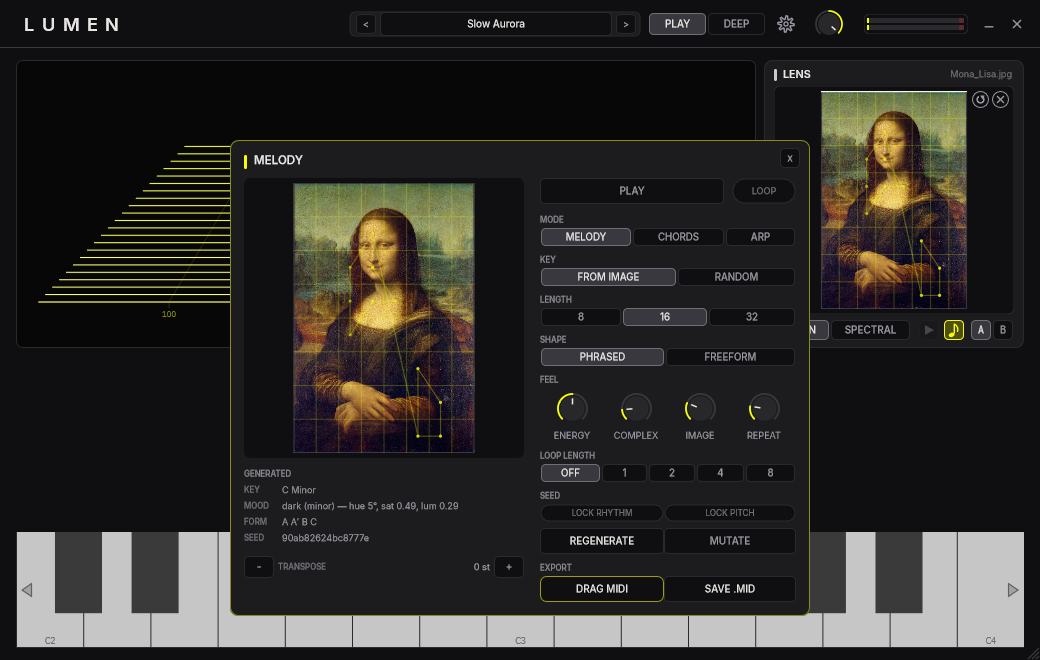
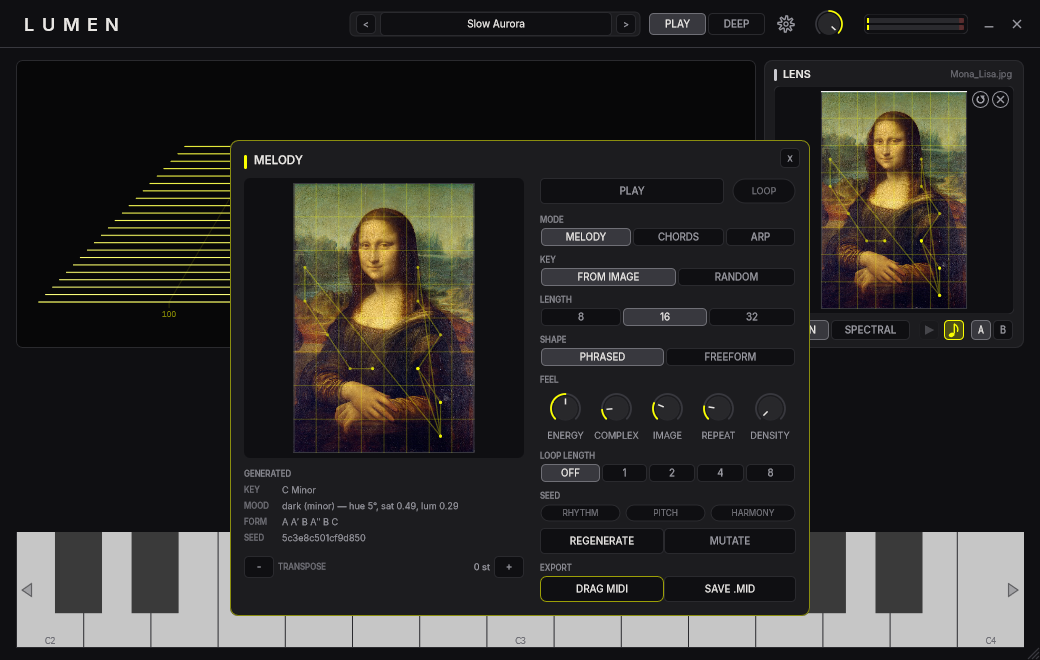
RC: close the two --check-params gaps — DENSITY knob, HARMONY lock chip
melodyDensity (param since Phase 3, knob deferred pending screenshot
verification) joins the FEEL row as its fifth knob; melodyLockHarmony
(param since Phase 4b) joins the SEED row as a third lock chip, so all
three RegenLocks are now reachable. Lock chips relabelled RHYTHM /
PITCH / HARMONY to fit three across (the SEED caption + tooltips keep
the meaning). --check-params: 114/114 attached, none missing.

New MelodyParamRoundtripTest pins the whole melody surface in one
state round-trip: all 16 melody params (incl. Phase 5's loopPlayback
and transpose) set non-default, serialized, restored into a fresh
processor, compared. Both params were already APVTS-persisted — the
gap was UI reachability, and the roundtrip now proves the persistence
claim rather than assuming it.

Verified: Windows suite ALL TESTS PASSED; WSL suite green minus the
known Linux-only golden; panel screenshot re-inspected (five knobs and
three chips render without clipping; kept in samples/phase5-ui/).

diff --git a/Source/UI/MelodyPanel.cpp b/Source/UI/MelodyPanel.cpp
@@ -308,15 +308,17 @@ MelodyPanel::MelodyPanel (const UiShared& sharedContext)
     addAndMakeVisible (arpPatternTabs);
     addAndMakeVisible (loopTabs);
 
-    // Four macro knobs.
+    // Five macro knobs.
     energyKnob     = std::make_unique<ModKnob> (shared, params::melodyEnergy,         "ENERGY",   theme::neonYellow);
     complexityKnob = std::make_unique<ModKnob> (shared, params::melodyComplexity,     "COMPLEX",  theme::neonYellow);
     imageKnob      = std::make_unique<ModKnob> (shared, params::melodyImageInfluence, "IMAGE",    theme::neonYellow);
     repetitionKnob = std::make_unique<ModKnob> (shared, params::melodyRepetition,     "REPEAT",   theme::neonYellow);
+    densityKnob    = std::make_unique<ModKnob> (shared, params::melodyDensity,        "DENSITY",  theme::neonYellow);
     addAndMakeVisible (*energyKnob);
     addAndMakeVisible (*complexityKnob);
     addAndMakeVisible (*imageKnob);
     addAndMakeVisible (*repetitionKnob);
+    addAndMakeVisible (*densityKnob);
 
     // Regeneration: fresh material, or a small mutation of the current one; the
     // two locks constrain what either is allowed to change.
@@ -331,12 +333,15 @@ MelodyPanel::MelodyPanel (const UiShared& sharedContext)
     mutateButton.onClick = [this] { shared.processor.melodyController().mutate(); };
     addAndMakeVisible (mutateButton);
 
-    lockRhythm = std::make_unique<ParamToggle> (shared, params::melodyLockRhythm, "LOCK RHYTHM", theme::neonYellow);
-    lockPitch  = std::make_unique<ParamToggle> (shared, params::melodyLockPitch,  "LOCK PITCH",  theme::neonYellow);
+    lockRhythm  = std::make_unique<ParamToggle> (shared, params::melodyLockRhythm,  "RHYTHM",  theme::neonYellow);
+    lockPitch   = std::make_unique<ParamToggle> (shared, params::melodyLockPitch,   "PITCH",   theme::neonYellow);
+    lockHarmony = std::make_unique<ParamToggle> (shared, params::melodyLockHarmony, "HARMONY", theme::neonYellow);
     lockRhythm->button.setTooltip ("Keep the timing; Regenerate/Mutate change only pitch");
     lockPitch->button.setTooltip ("Keep the pitches; Regenerate/Mutate change only rhythm");
+    lockHarmony->button.setTooltip ("Keep the chord progression while pitch/rhythm re-roll");
     addAndMakeVisible (*lockRhythm);
     addAndMakeVisible (*lockPitch);
+    addAndMakeVisible (*lockHarmony);
 
     styleChip (saveButton, theme::accentMod);
     saveButton.setColour (juce::TextButton::textColourOffId, theme::textPrimary);
@@ -441,20 +446,23 @@ void MelodyPanel::resized()
     phraseTabs.setBounds (shapeRow);
     arpPatternTabs.setBounds (shapeRow);
 
-    // FEEL: four macro knobs across the column.
+    // FEEL: five macro knobs across the column.
     auto knobs = section ("FEEL", 54);
-    const int kw = knobs.getWidth() / 4;
-    energyKnob->setBounds     (knobs.removeFromLeft (kw).reduced (3, 0));
-    complexityKnob->setBounds (knobs.removeFromLeft (kw).reduced (3, 0));
-    imageKnob->setBounds      (knobs.removeFromLeft (kw).reduced (3, 0));
-    repetitionKnob->setBounds (knobs.reduced (3, 0));
+    const int kw = knobs.getWidth() / 5;
+    energyKnob->setBounds     (knobs.removeFromLeft (kw).reduced (2, 0));
+    complexityKnob->setBounds (knobs.removeFromLeft (kw).reduced (2, 0));
+    imageKnob->setBounds      (knobs.removeFromLeft (kw).reduced (2, 0));
+    repetitionKnob->setBounds (knobs.removeFromLeft (kw).reduced (2, 0));
+    densityKnob->setBounds    (knobs.reduced (2, 0));
 
     loopTabs.setBounds (section ("LOOP LENGTH", 18));
 
-    // SEED: the two locks, then the two regeneration actions.
+    // SEED: the three locks, then the two regeneration actions.
     auto lockRow = section ("SEED", 18, 6);
-    lockRhythm->setBounds (lockRow.removeFromLeft (lockRow.getWidth() / 2 - 4));
-    lockPitch->setBounds  (lockRow.removeFromRight (lockRow.getWidth()));
+    const int lw = lockRow.getWidth() / 3;
+    lockRhythm->setBounds  (lockRow.removeFromLeft (lw).withTrimmedRight (4));
+    lockPitch->setBounds   (lockRow.removeFromLeft (lw).withTrimmedRight (4));
+    lockHarmony->setBounds (lockRow);
     auto actionRow = row (26, 8);
     regenerateButton.setBounds (actionRow.removeFromLeft (actionRow.getWidth() / 2 - 4));
     mutateButton.setBounds     (actionRow.removeFromRight (actionRow.getWidth()));

diff --git a/Tools/Tests/TestsMain.cpp b/Tools/Tests/TestsMain.cpp
@@ -2183,6 +2183,68 @@ public:
     }
 };
 
+// RC pass: every melody parameter — including the Phase 5 additions — must
+// survive a full APVTS state round-trip with a non-default value. This is the
+// save/load contract for the whole melody surface in one pin.
+class MelodyParamRoundtripTest final : public juce::UnitTest
+{
+public:
+    MelodyParamRoundtripTest()
+        : juce::UnitTest ("Melody parameters all survive a state round-trip", "State") {}
+
+    void runTest() override
+    {
+        using namespace lumen;
+
+        // id -> distinct non-default value (denormalized).
+        const std::pair<const char*, float> targets[] = {
+            { params::melodyKeyMode,        1.0f },   // Random
+            { params::melodyMode,           2.0f },   // Arp
+            { params::melodyLength,         2.0f },   // 32
+            { params::melodyPhrase,         1.0f },   // Freeform
+            { params::melodyArpPattern,     4.0f },   // Random
+            { params::melodyLoopLength,     3.0f },   // 4 bars
+            { params::melodyEnergy,         0.9f },
+            { params::melodyComplexity,     0.6f },
+            { params::melodyImageInfluence, 0.8f },
+            { params::melodyRepetition,     0.7f },
+            { params::melodyDensity,        0.4f },
+            { params::melodyLockRhythm,     1.0f },
+            { params::melodyLockPitch,      1.0f },
+            { params::melodyLockHarmony,    1.0f },
+            { params::melodyLoopPlayback,   1.0f },
+            { params::melodyTranspose,      -7.0f },
+        };
+
+        beginTest ("set non-default values and serialize");
+        NullProcessor source;
+        for (const auto& [id, value] : targets)
+        {
+            auto* p = source.apvts.getParameter (id);
+            expect (p != nullptr, juce::String (id) + " exists");
+            if (p != nullptr)
+                p->setValueNotifyingHost (p->convertTo0to1 (value));
+        }
+        const auto xml = source.apvts.copyState().createXml();
+        expect (xml != nullptr, "state serializes to XML");
+        if (xml == nullptr)
+            return;
+
+        beginTest ("a fresh processor restores every melody param");
+        NullProcessor restored;
+        restored.apvts.replaceState (juce::ValueTree::fromXml (*xml));
+        for (const auto& [id, value] : targets)
+        {
+            auto* p = restored.apvts.getParameter (id);
+            expect (p != nullptr, juce::String (id) + " exists after restore");
+            if (p == nullptr)
+                continue;
+            expectWithinAbsoluteError (p->convertFrom0to1 (p->getValue()), value,
+                                       0.001f, juce::String (id));
+        }
+    }
+};
+
 // Phase 5: Transpose is post-generation only — the stored sequence never
 // changes, and the exported MIDI shifts every note by exactly the param value.
 class MelodyTransposeTest final : public juce::UnitTest
@@ -2263,6 +2325,7 @@ MelodyLockHarmonyWiringTest melodyLockHarmonyWiringTest;
 MelodyLoopPlaybackTest melodyLoopPlaybackTest;
 MelodySummaryTest melodySummaryTest;
 MelodyTransposeTest melodyTransposeTest;
+MelodyParamRoundtripTest melodyParamRoundtripTest;
 MipLevelTest mipLevelTest;
 SVFStabilityTest svfStabilityTest;
 EnvelopeTimingTest envelopeTimingTest;

diff --git a/Source/UI/MelodyPanel.h b/Source/UI/MelodyPanel.h
@@ -95,13 +95,15 @@ private:
     TabsBar arpPatternTabs;    // UP / DOWN / UP-DN / CONV / RAND (Arp mode)
     TabsBar loopTabs;          // OFF / 1 / 2 / 4 / 8  (LOOP LENGTH)
 
-    // Four musical macro knobs.
-    std::unique_ptr<ModKnob> energyKnob, complexityKnob, imageKnob, repetitionKnob;
+    // Five musical macro knobs (Density joined in the RC pass — the Phase 3
+    // param finally reachable in the UI).
+    std::unique_ptr<ModKnob> energyKnob, complexityKnob, imageKnob, repetitionKnob,
+                             densityKnob;
 
     // Regeneration.
     juce::TextButton regenerateButton { "REGENERATE" };
     juce::TextButton mutateButton { "MUTATE" };
-    std::unique_ptr<ParamToggle> lockRhythm, lockPitch;
+    std::unique_ptr<ParamToggle> lockRhythm, lockPitch, lockHarmony;
 
     // Export.
     juce::TextButton saveButton { "SAVE .MID" };
